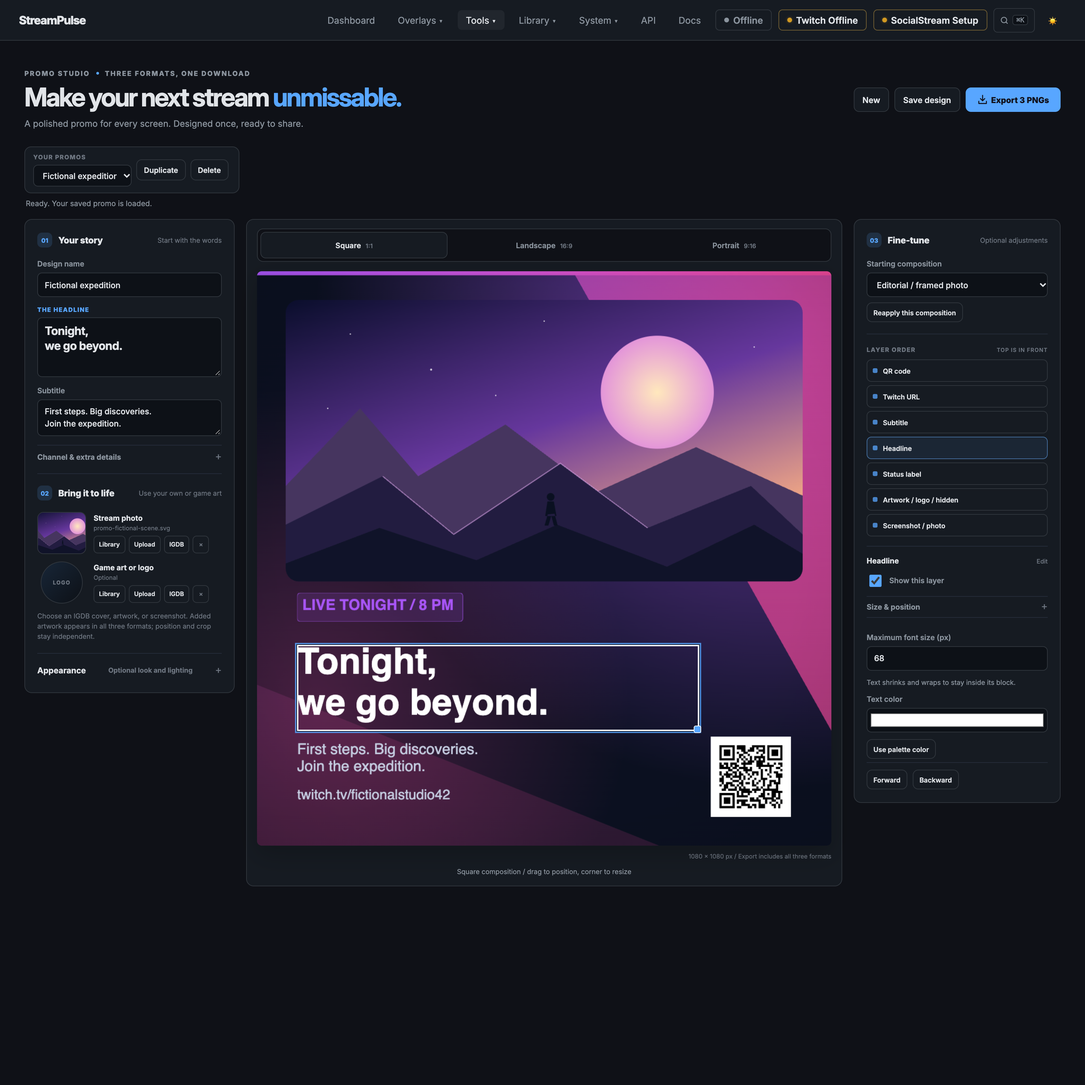
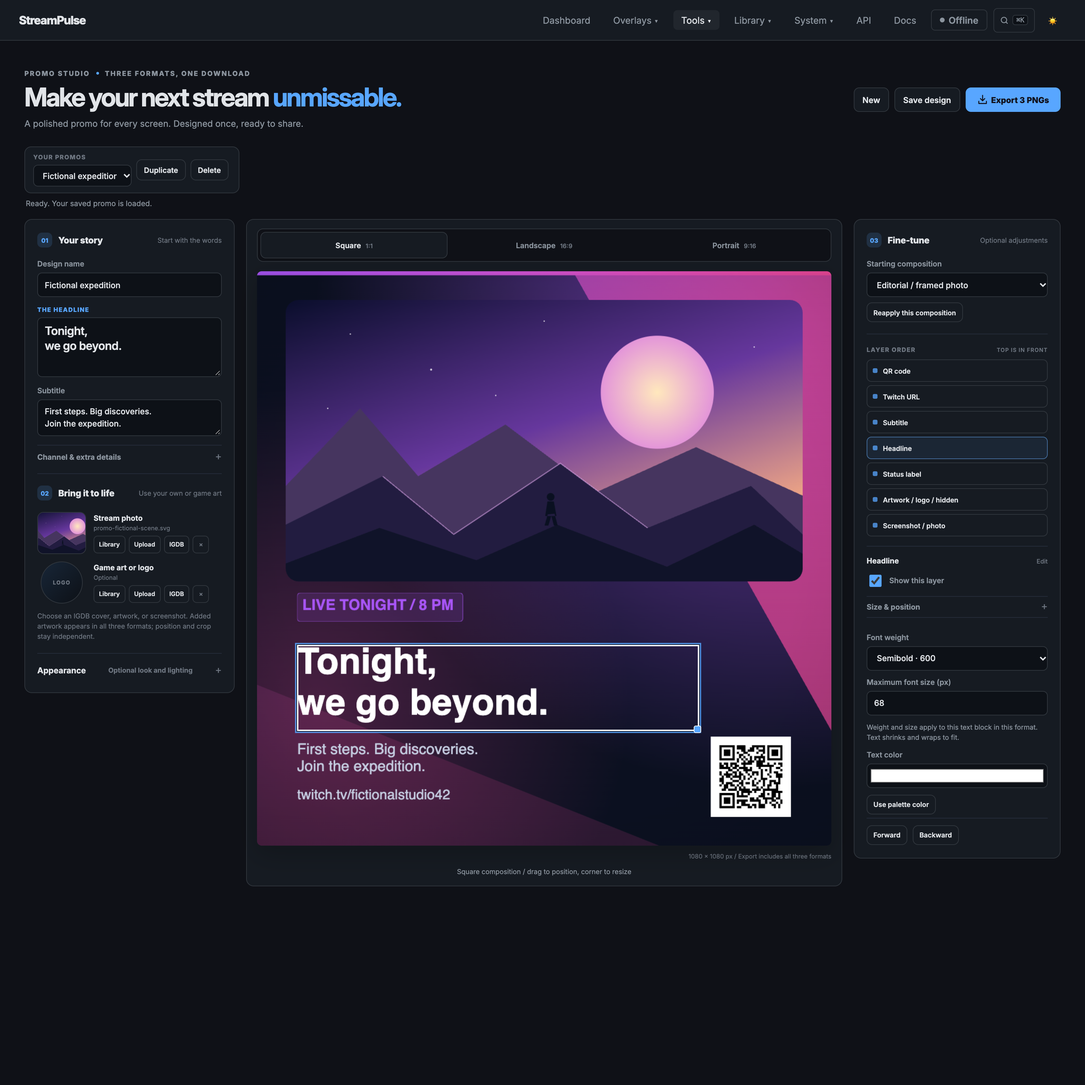
feat: add promo text weights and patterns

Changed region(s): [[0.7812, 0.625, 0.9688, 0.7812], [0.6562, 0.0, 0.9062, 0.0312], [0.5312, 0.0, 0.5625, 0.0312]]

diff --git a/public/js/promo-renderer.js b/public/js/promo-renderer.js
@@ -148,6 +148,91 @@ function drawThemeBackdrop(ctx, width, height, design, pattern) {
         for (let row = 0; row * step < height; row++) {
             for (let col = row % 2; col * step < width; col += 2) ctx.fillRect(col * step, row * step, step, step);
         }
+    } else if (pattern === 'crosshatch') {
+        const step = Math.max(34, width / 22);
+        ctx.lineWidth = Math.max(1, width / 700);
+        ctx.beginPath();
+        for (let offset = -height; offset < width + height; offset += step) {
+            ctx.moveTo(offset, 0); ctx.lineTo(offset + height, height);
+            ctx.moveTo(offset, height); ctx.lineTo(offset + height, 0);
+        }
+        ctx.stroke();
+    } else if (pattern === 'waves') {
+        const rowStep = Math.max(36, height / 18), amplitude = Math.max(8, width / 100), wavelength = Math.max(70, width / 8);
+        ctx.lineWidth = Math.max(1.5, width / 500);
+        for (let row = 0; row <= height / rowStep; row++) {
+            const baseY = row * rowStep;
+            ctx.beginPath();
+            for (let x = 0; x <= width; x += Math.max(4, width / 180)) {
+                const y = baseY + Math.sin((x / wavelength) * Math.PI * 2 + row * .45) * amplitude;
+                if (x === 0) ctx.moveTo(x, y); else ctx.lineTo(x, y);
+            }
+            ctx.stroke();
+        }
+    } else if (pattern === 'rings') {
+        const cx = width * .5, cy = height * .5, step = Math.max(24, width / 36);
+        ctx.lineWidth = Math.max(1.5, width / 500);
+        for (let radius = step; radius < Math.hypot(width, height); radius += step) {
+            ctx.beginPath(); ctx.arc(cx, cy, radius, 0, Math.PI * 2); ctx.stroke();
+        }
+    } else if (pattern === 'triangles') {
+        const size = Math.max(36, width / 20), rowStep = size * Math.sqrt(3) / 2;
+        ctx.lineWidth = Math.max(1, width / 700);
+        for (let row = -1; row * rowStep < height + rowStep; row++) {
+            for (let col = -1; col * size < width + size; col++) {
+                const x = col * size + (row & 1) * size / 2, y = row * rowStep;
+                ctx.beginPath();
+                ctx.moveTo(x, y + rowStep); ctx.lineTo(x + size / 2, y); ctx.lineTo(x + size, y + rowStep);
+                ctx.closePath(); ctx.stroke();
+                ctx.beginPath();
+                ctx.moveTo(x + size / 2, y); ctx.lineTo(x + size, y + rowStep); ctx.lineTo(x + size * 1.5, y);
+                ctx.closePath(); ctx.stroke();
+            }
+        }
+    } else if (pattern === 'chevrons') {
+        const step = Math.max(36, width / 22), rowStep = step * .65;
+        ctx.lineWidth = Math.max(1.5, width / 500);
+        ctx.beginPath();
+        for (let y = -rowStep; y < height + rowStep; y += rowStep) {
+            for (let x = -step; x < width + step; x += step) {
+                ctx.moveTo(x, y); ctx.lineTo(x + step / 2, y + rowStep / 2); ctx.lineTo(x + step, y);
+            }
+        }
+        ctx.stroke();
+    } else if (pattern === 'topography') {
+        const centers = [[.2, .25], [.76, .32], [.49, .82]], step = Math.max(16, width / 54);
+        ctx.lineWidth = Math.max(1, width / 850);
+        for (const [cx, cy] of centers) {
+            for (let ring = 1; ring <= 10; ring++) {
+                ctx.beginPath();
+                ctx.ellipse(width * cx, height * cy, step * ring, step * ring * (.58 + (ring % 3) * .08), ring * .13, 0, Math.PI * 2);
+                ctx.stroke();
+            }
+        }
+    } else if (pattern === 'confetti') {
+        for (let i = 0; i < 180; i++) {
+            const x = (i * 157.31) % width, y = (i * 281.17) % height, size = Math.max(3, width / 180) * (1 + i % 3);
+            ctx.save(); ctx.translate(x, y); ctx.rotate(i * 2.399);
+            ctx.fillStyle = i % 2 ? colors.accent + '90' : (colors.secondary || colors.accent) + '90';
+            if (i % 3 === 0) {
+                ctx.beginPath(); ctx.arc(0, 0, size / 2, 0, Math.PI * 2); ctx.fill();
+            } else ctx.fillRect(-size / 2, -size / 4, size, size / 2);
+            ctx.restore();
+        }
+    } else if (pattern === 'circuit') {
+        const step = Math.max(52, width / 16), node = Math.max(3, width / 220);
+        ctx.lineWidth = Math.max(1.5, width / 500);
+        for (let row = 0; row * step < height + step; row++) {
+            for (let col = 0; col * step < width + step; col++) {
+                const x = col * step, y = row * step, direction = (row + col) % 2 ? 1 : -1;
+                ctx.beginPath();
+                ctx.moveTo(x, y); ctx.lineTo(x + step * .32, y);
+                ctx.lineTo(x + step * .32, y + step * .55 * direction);
+                ctx.lineTo(x + step * .78, y + step * .55 * direction);
+                ctx.stroke();
+                ctx.beginPath(); ctx.arc(x + step * .78, y + step * .55 * direction, node, 0, Math.PI * 2); ctx.stroke();
+            }
+        }
     } else if (!pattern && design.theme === 'gold') {
         for (let i = 0; i < 6; i++) ctx.strokeRect(width * (.025 + i * .006), height * (.025 + i * .006), width * (.95 - i * .012), height * (.95 - i * .012));
     } else if (pattern === 'geometry' || (!pattern && ['fire', 'purple', 'rainbow'].includes(design.theme))) {
@@ -245,12 +330,12 @@ export async function renderPromo(canvas, design, ratio, { preview = true } = {}
             const value = key === 'url' ? design.url.replace('https://', '') : design[key];
             if (value && key === 'badge') {
                 const padding = Math.min(box.h * .18, 14), size = Math.min(block.fontSize, box.h * .55);
-                ctx.font = `700 ${size}px ${font}`;
+                ctx.font = `${block.fontWeight} ${size}px ${font}`;
                 const w = Math.min(box.w, ctx.measureText(value).width + padding * 2.8);
                 ctx.fillStyle = colors.accent + '25'; ctx.strokeStyle = colors.accent + '90'; ctx.lineWidth = 1.5;
                 ctx.beginPath(); ctx.roundRect(box.x, box.y, w, box.h, 6); ctx.fill(); ctx.stroke();
-                drawText(ctx, value, { x: box.x + padding, y: box.y + padding, w: Math.max(1, w - padding * 2), h: box.h - padding * 2 }, size, block.color || colors.accent, font, 700);
-            } else if (value) drawText(ctx, value, box, block.fontSize, block.color || (key === 'subtitle' || key === 'url' ? colors.muted : colors.text), font, key === 'title' ? 700 : 400);
+                drawText(ctx, value, { x: box.x + padding, y: box.y + padding, w: Math.max(1, w - padding * 2), h: box.h - padding * 2 }, size, block.color || colors.accent, font, block.fontWeight);
+            } else if (value) drawText(ctx, value, box, block.fontSize, block.color || (key === 'subtitle' || key === 'url' ? colors.muted : colors.text), font, block.fontWeight);
         }
         ctx.restore();
     }

diff --git a/public/editors/promo-creator.html b/public/editors/promo-creator.html
@@ -51,7 +51,11 @@
                         <label>Background style<select id="background-mode"><option value="theme">Use theme background</option><option value="solid">Solid color</option><option value="gradient">Gradient</option><option value="transparent">Transparent</option><option value="image">Use an image</option><option value="pattern">Pattern</option></select></label>
                         <div id="background-fill"><label>Base color<input id="background-color" type="color"></label></div>
                         <div id="background-gradient" class="inline-controls" hidden><label>End color<input id="background-endColor" type="color"></label><label>Angle<input id="background-angle" type="number" min="0" max="360"></label></div>
-                        <label id="background-pattern-control" hidden>Pattern<select id="background-pattern"><option value="grid">Grid</option><option value="geometry">Geometry</option><option value="orbits">Orbits</option><option value="hexagons">Hexagons</option><option value="dots">Dots</option><option value="diagonal">Diagonal lines</option><option value="checker">Checkerboard</option></select></label>
+                        <label id="background-pattern-control" hidden>Pattern<select id="background-pattern">
+                            <optgroup label="Geometric"><option value="grid">Grid</option><option value="geometry">Geometry</option><option value="orbits">Orbits</option><option value="hexagons">Hexagons</option><option value="triangles">Triangles</option><option value="chevrons">Chevrons</option><option value="dots">Dots</option><option value="diagonal">Diagonal lines</option><option value="crosshatch">Crosshatch</option><option value="checker">Checkerboard</option></optgroup>
+                            <optgroup label="Organic"><option value="waves">Waves</option><option value="rings">Concentric rings</option><option value="topography">Topographic contours</option></optgroup>
+                            <optgroup label="Playful &amp; tech"><option value="confetti">Confetti</option><option value="circuit">Circuit board</option></optgroup>
+                        </select></label>
                         <div id="background-image-controls" hidden>
                             <div class="asset-actions background-actions"><button data-library="background" type="button">Choose image</button><button data-upload="background" type="button">Upload</button><button data-clear="background" type="button">Clear</button><small id="background-name">No background image</small></div>
                             <div class="inline-controls"><label>Fit<select id="background-fit"><option value="cover">Fill / crop</option><option value="contain">Contain</option></select></label><label>Darken<input id="background-shade" type="range" min="0" max="100"></label></div>
@@ -92,7 +96,7 @@
                     <label>X (%)<input id="block-x" type="number" min="0" max="98" step=".1"></label><label>Y (%)<input id="block-y" type="number" min="0" max="98" step=".1"></label>
                     <label>Width (%)<input id="block-w" type="number" min="2" max="100" step=".1"></label><label>Height (%)<input id="block-h" type="number" min="2" max="100" step=".1"></label>
                 </div></details>
-                <div id="text-controls"><label>Maximum font size (px)<input id="block-fontSize" type="number" min="12" max="240"></label><p class="hint">Text shrinks and wraps to stay inside its block.</p><label>Text color<input id="block-color" type="color"></label><button id="inherit-color" type="button">Use palette color</button></div>
+                <div id="text-controls"><label>Font weight<select id="block-fontWeight"><option value="300">Light · 300</option><option value="400">Regular · 400</option><option value="500">Medium · 500</option><option value="600">Semibold · 600</option><option value="700">Bold · 700</option><option value="800">Extra bold · 800</option><option value="900">Black · 900</option></select></label><label>Maximum font size (px)<input id="block-fontSize" type="number" min="12" max="240"></label><p class="hint">Weight and size apply to this text block in this format. Text shrinks and wraps to fit.</p><label>Text color<input id="block-color" type="color"></label><button id="inherit-color" type="button">Use palette color</button></div>
                 <div id="image-controls"><label>Shape<select id="block-shape"><option value="rounded">Rounded corners</option><option value="rectangle">Rectangle</option><option value="circle">Circle crop / logo</option></select></label><label id="radius-control">Corner radius<input id="block-radius" type="number" min="0" max="200"></label><label>Image fit<select id="block-fit"><option value="cover">Fill / crop</option><option value="contain">Contain / no crop</option></select></label><details><summary>Adjust image crop</summary><label>Horizontal focus<input id="block-focusX" type="range" min="0" max="100"></label><label>Vertical focus<input id="block-focusY" type="range" min="0" max="100"></label></details></div>
                 <p id="qr-hint" class="hint" hidden>The QR uses your Twitch URL, a white quiet zone, and a square fit. Keep it large enough to scan after sharing.</p>
                 <div class="actions"><button id="move-front" type="button">Forward</button><button id="move-back" type="button">Backward</button></div>

diff --git a/public/js/promo-model.js b/public/js/promo-model.js
@@ -2,6 +2,8 @@
     const studioThemes = typeof module === 'object' && module.exports ? require('./studio-themes') : root.StudioThemes;
     const SIZES = { square: [1080, 1080], landscape: [1920, 1080], portrait: [1080, 1920] };
     const BLOCKS = ['photo', 'artwork', 'badge', 'title', 'subtitle', 'url', 'qr'];
+    const PATTERNS = ['grid', 'geometry', 'orbits', 'hexagons', 'dots', 'diagonal', 'checker', 'crosshatch', 'waves', 'rings', 'triangles', 'chevrons', 'topography', 'confetti', 'circuit'];
+    const FONT_WEIGHTS = [300, 400, 500, 600, 700, 800, 900];
     const THEMES = {
         studio: { background: '#f0eee8', panel: '#ffffff', accent: '#4338ca', text: '#141725', muted: '#51576b' },
         ember: { background: '#1b1114', panel: '#35212a', accent: '#ffb86b', text: '#fff6ee', muted: '#dbc6cd' }
@@ -44,7 +46,7 @@
             theme: Object.hasOwn(THEMES, input.theme) ? input.theme : fallbackTheme,
             color: hex(input.color, '#0b1020'), endColor: hex(input.endColor, '#4338ca'),
             angle: number(input.angle, 135, 0, 360),
-            pattern: ['grid', 'geometry', 'orbits', 'hexagons', 'dots', 'diagonal', 'checker'].includes(input.pattern) ? input.pattern : 'orbits',
+            pattern: PATTERNS.includes(input.pattern) ? input.pattern : 'orbits',
             vignette: number(input.vignette, fallbackVignette, 0, 70),
             image: assetUrl(input.image), fit: input.fit === 'contain' ? 'contain' : 'cover',
             focusX: number(input.focusX, 50, 0, 100), focusY: number(input.focusY, 50, 0, 100),
@@ -72,20 +74,20 @@
 
     function arrangement(ratio, template = 'editorial') {
         const portrait = ratio === 'portrait', square = ratio === 'square';
-        const box = (x, y, w, h, extra = {}) => ({ x, y, w, h, enabled: true, fontSize: 64, color: '', fit: 'cover', focusX: 50, focusY: 50, shape: 'rounded', radius: 24, ...extra });
+        const box = (x, y, w, h, extra = {}) => ({ x, y, w, h, enabled: true, fontSize: 64, fontWeight: 400, color: '', fit: 'cover', focusX: 50, focusY: 50, shape: 'rounded', radius: 24, ...extra });
         const blocks = portrait ? {
             photo: box(5, 5, 90, 46), artwork: box(76, 61, 17, 18, { enabled: false, fit: 'contain' }),
-            badge: box(7, 55, 55, 4, { fontSize: 32 }), title: box(7, 62, 66, 14, { fontSize: 88 }),
+            badge: box(7, 55, 55, 4, { fontSize: 32, fontWeight: 600 }), title: box(7, 62, 66, 14, { fontSize: 88, fontWeight: 600 }),
             subtitle: box(7, 79, 63, 7, { fontSize: 36 }), url: box(7, 90, 66, 4, { fontSize: 30 }),
             qr: box(78, 86, 15, 8.4375)
         } : square ? {
             photo: box(5, 5, 90, 49), artwork: box(78, 60, 15, 19, { enabled: false, fit: 'contain' }),
-            badge: box(7, 56, 55, 5, { fontSize: 28 }), title: box(7, 65, 70, 15, { fontSize: 68 }),
+            badge: box(7, 56, 55, 5, { fontSize: 28, fontWeight: 600 }), title: box(7, 65, 70, 15, { fontSize: 68, fontWeight: 600 }),
             subtitle: box(7, 82, 62, 6, { fontSize: 28 }), url: box(7, 90, 66, 5, { fontSize: 26 }),
             qr: box(79, 81, 14, 14)
         } : {
             photo: box(47, 5, 49, 90), artwork: box(4, 71, 13, 17, { enabled: false, fit: 'contain' }),
-            badge: box(4, 8, 35, 6, { fontSize: 30 }), title: box(4, 22, 38, 32, { fontSize: 88 }),
+            badge: box(4, 8, 35, 6, { fontSize: 30, fontWeight: 600 }), title: box(4, 22, 38, 32, { fontSize: 88, fontWeight: 600 }),
             subtitle: box(4, 56, 38, 11, { fontSize: 34 }), url: box(4, 90, 25, 5, { fontSize: 28 }),
             qr: box(32, 81, 9, 16)
         };
@@ -119,6 +121,7 @@
                 blocks[key] = {
                     x, y, w: number(block.w, base.w, 2, 100 - x), h: number(block.h, base.h, 2, 100 - y),
                     enabled: block.enabled !== false, fontSize: number(block.fontSize, base.fontSize, 12, 240),
+                    fontWeight: FONT_WEIGHTS.includes(Number(block.fontWeight)) ? Number(block.fontWeight) : base.fontWeight,
                     color: hex(block.color, ''), fit: block.fit === 'contain' ? 'contain' : 'cover',
                     shape: ['rectangle', 'rounded', 'circle'].includes(block.shape) ? block.shape : base.shape,
                     radius: number(block.radius, base.radius, 0, 200),
@@ -138,7 +141,7 @@
         };
     }
 
-    const api = { SIZES, BLOCKS, THEMES, arrangement, normalize, twitchUrl, assetUrl, background, appearance, normalizeTheme };
+    const api = { SIZES, BLOCKS, PATTERNS, FONT_WEIGHTS, THEMES, arrangement, normalize, twitchUrl, assetUrl, background, appearance, normalizeTheme };
     if (typeof module === 'object' && module.exports) module.exports = api;
     else root.PromoModel = api;
 })(typeof window !== 'undefined' ? window : globalThis);

diff --git a/public/js/promo-creator.js b/public/js/promo-creator.js
@@ -90,7 +90,7 @@ function syncBlock() {
     const b = block(), image = ['photo', 'artwork'].includes(selected);
     $('block-heading').textContent = LABELS[selected];
     $('block-enabled').checked = b.enabled;
-    for (const key of ['x', 'y', 'w', 'h', 'fontSize', 'focusX', 'focusY', 'radius']) $('block-' + key).value = Math.round(b[key] * 10) / 10;
+    for (const key of ['x', 'y', 'w', 'h', 'fontSize', 'fontWeight', 'focusX', 'focusY', 'radius']) $('block-' + key).value = Math.round(b[key] * 10) / 10;
     $('block-fit').value = b.fit;
     $('block-shape').value = b.shape;
     $('radius-control').hidden = b.shape !== 'rounded';
@@ -333,8 +333,9 @@ $('block-list').addEventListener('click', event => {
     const key = event.target.closest('[data-select]')?.dataset.select;
     if (key) { selected = key; syncBlock(); }
 });
-for (const key of ['x', 'y', 'w', 'h', 'fontSize', 'focusX', 'focusY', 'radius', 'shape', 'fit', 'color', 'enabled']) {
-    $('block-' + key).addEventListener('input', event => {
+for (const key of ['x', 'y', 'w', 'h', 'fontSize', 'fontWeight', 'focusX', 'focusY', 'radius', 'shape', 'fit', 'color', 'enabled']) {
+    const field = $('block-' + key);
+    field.addEventListener(field.tagName === 'SELECT' ? 'change' : 'input', event => {
         block()[key] = key === 'enabled' ? event.target.checked : ['color', 'fit', 'shape'].includes(key) ? event.target.value : Number(event.target.value);
         design.layouts = M.normalize({ ...design, url: '' }).layouts;
         changed();

diff --git a/public/css/promo-creator.css b/public/css/promo-creator.css
@@ -43,7 +43,7 @@ input[type=range]{min-height:20px;padding:0;accent-color:var(--accent)}
 .step-mark{display:grid;place-items:center;width:22px;height:22px;border-radius:7px;background:color-mix(in srgb,var(--accent) 15%,transparent);color:var(--accent);font-size:9px;font-weight:800}
 .design-name-label{margin-bottom:13px}
 .headline-field span{font-size:9px;letter-spacing:.1em;font-weight:750;color:var(--accent)}
-.headline-field textarea{min-height:88px;font-size:17px;font-weight:680;letter-spacing:-.025em;line-height:1.3}
+.headline-field textarea{min-height:88px;font-size:17px;font-weight:600;letter-spacing:-.025em;line-height:1.3}
 .optional-fields{border-top:1px solid var(--promo-border);padding-top:10px}
 summary{position:relative;cursor:pointer;list-style:none;font-size:11px;font-weight:650;color:var(--text-muted)}
 summary::-webkit-details-marker{display:none}

diff --git a/docs/promo-creator.md b/docs/promo-creator.md
@@ -50,7 +50,7 @@ Background controls affect only the selected ratio:
 | Gradient | Start/end colors and direction angle |
 | Transparent | No background; the preview checkerboard is not exported |
 | Image | Upload or Library, fill/crop or contain, crop focus, and darkening |
-| Pattern | Grid, geometry, orbits, hexagons, dots, diagonal lines, or checkerboard with palette accents |
+| Pattern | 15 choices: grid, geometry, orbits, hexagons, triangles, chevrons, dots, diagonal lines, crosshatch, checkerboard, waves, concentric rings, topographic contours, confetti, or circuit board |
 | Edge vignette | Adjustable 0–70% soft darkening; starts at a subtle 18% on new promos and is skipped for transparent backgrounds |
 
 Patterns, vignette strength, image crop, and canvas corner radius save independently per format. New promos start with a subtle edge vignette; existing designs keep their previous appearance. An image background is separate from the photo and artwork blocks. A saved custom theme can include its library image and vignette; the Asset Library tracks image references too. If an image background is selected without an image, export reports the affected format instead of silently producing an incomplete pack.
@@ -62,7 +62,7 @@ The **Font** chooser offers system fonts, Google Fonts, and fonts already upload
 - **Type first** starts with the photo hidden for a minimal typography-led design.
 - Choosing a **Starting layout** applies it immediately to this format. If you have modified its arrangement, confirmation protects your edits. **Rearrange this format** reapplies the current layout; neither action changes your other formats or content.
 - Starting layouts keep the headline and supporting copy in dedicated areas with a separate artwork position. Add artwork once to enable its reserved slot in all formats, then adjust each format as needed.
-- Text wraps and shrinks inside its block. Very small blocks truncate overflow; give important headlines enough space.
+- Text wraps and shrinks inside its block. Choose a **Font weight** from Light (300) through Black (900) for the selected headline, subtitle, status, or URL block; the weight is saved independently for each format. New headlines and status labels start at a less-heavy semibold weight. Very small blocks truncate overflow; give important headlines enough space.
 - Images can fill/crop or contain without cropping. Crop focus controls choose which part of the image stays visible.
 - Select a photo/artwork block and choose **Rounded corners**, **Rectangle**, or **Circle crop / logo** in the inspector. Rounded corners have a pixel-radius control; circular crops stay perfectly round even inside a rectangular block. Shape, radius, fit, and crop focus are saved independently per format.
 - To round the entire promo rather than just its images, open **Appearance > Canvas corner radius**. This affects only the current format and leaves transparent PNG corners; `0` keeps a full rectangular canvas.

diff --git a/README.md b/README.md
@@ -22,7 +22,7 @@ StreamPulse is currently focused on Twitch streamers who want to plan their show
 - **Cinematic Broadcast Overlays**: Instant OBS browser sources for movie-style scrolling end credits, spinning choice randomizers, game plan broadcast schedules, community goal meters, and retro CRT animated borders. Custom overlays also include a compact native Twitch poll display with adaptive 2–5-choice bars, vote totals, and a countdown; voting remains in Twitch.
 - **Resource-Aware Rendering**: Limits inactive overlay work and avoids unnecessary refreshes. Resource use still depends on your scenes, media, effects, and hardware.
 - **Prioritized Automatic Pages**: Alerts take priority over featured messages, polls, and commands. Interrupted polls resume while still valid; expired messages and commands are discarded instead of replaying late.
-- **Promo Creator**: Open **Tools > Promo Creator** for stream announcements with optional built-in or reusable custom themes, configurable backgrounds, geometric patterns, adjustable vignettes, IGDB game-art browsing, screenshot uploads, rounded/circular images, fonts, and Twitch URL/QR. Refine square, landscape, and portrait arrangements using ratio tabs, then export all three PNGs in one ZIP. Save locally and share yourself; no social integrations.
+- **Promo Creator**: Open **Tools > Promo Creator** for stream announcements with optional built-in or reusable custom themes, 15 configurable patterns, adjustable vignettes, IGDB game-art browsing, screenshot uploads, rounded/circular images, font selection, and per-format text-weight controls. Refine square, landscape, and portrait arrangements using ratio tabs, then export all three PNGs in one ZIP. Save locally and share yourself; no social integrations.
 
 Whether you're looking for a simple, automated credits roll to thank your community at the end of each stream, or a complete production suite with Stream Deck hardware controls, StreamPulse has you covered.
 

diff --git a/docs/features.md b/docs/features.md
@@ -30,7 +30,7 @@ Use the overlay wizards to choose a look, preview it, and copy the link into OBS
 
 ### Promo Creator
 
-Open **Tools > Promo Creator** to make a professional stream announcement with optional built-in or reusable custom themes, solid/gradient/transparent/image/pattern backgrounds, geometric pattern choices, adjustable vignettes, IGDB artwork, your own photo, rounded/circular images, fonts, Twitch URL, and QR code. Square, landscape, and portrait tabs keep arrangements and backgrounds independent; download all three PNGs in one ZIP. Designs and custom themes save locally for next time; no social accounts or publishing integrations are involved.
+Open **Tools > Promo Creator** to make a professional stream announcement with optional built-in or reusable custom themes, solid/gradient/transparent/image backgrounds, 15 selectable patterns, adjustable vignettes, IGDB artwork, your own photo, rounded/circular images, fonts, per-format text-weight controls, Twitch URL, and QR code. Square, landscape, and portrait tabs keep arrangements and backgrounds independent; download all three PNGs in one ZIP. Designs and custom themes save locally for next time; no social accounts or publishing integrations are involved.
 
 **Good for:** a reusable “going live” image that matches your channel. See the [Promo Creator guide](promo-creator.md).
 

diff --git a/docs/changelog.md b/docs/changelog.md
@@ -11,8 +11,8 @@ All notable changes to StreamPulse are documented in this file. The format is ba
 ## [Unreleased]
 
 ### Added
-- Promo Creator under Tools: saved designs, independent 1:1/16:9/9:16 arrangements, editable title/photo/artwork/URL/QR blocks, one-click themes, font chooser, rounded images/circular logos, IGDB artwork imported with actual-format detection, and all three PNGs downloaded together in one ZIP without social integrations.
-- Promo Creator includes hexagon, dot, diagonal-line, and checkerboard patterns, adjustable vignette, and more deliberate text/artwork placements across formats.
+- Promo Creator under Tools: saved designs, independent 1:1/16:9/9:16 arrangements, editable title/photo/artwork/URL/QR blocks, per-format text weights from 300–900, one-click themes, font chooser, rounded images/circular logos, IGDB artwork imported with actual-format detection, and all three PNGs downloaded together in one ZIP without social integrations.
+- Promo Creator includes 15 selectable patterns, adjustable vignette, and more deliberate text/artwork placements across formats.
 - Custom overlay Poll element and 400 × 150 Compact poll preset: adaptive 2–5-choice result bars, native Twitch vote counts/percentages, remaining-time countdown, configurable completed-result duration, and preview-only fictional samples.
 
 ### Fixed
